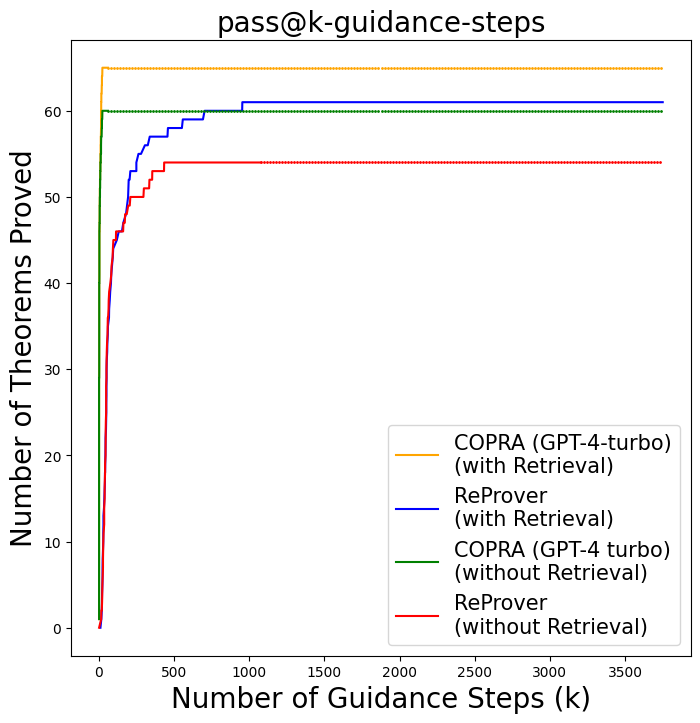
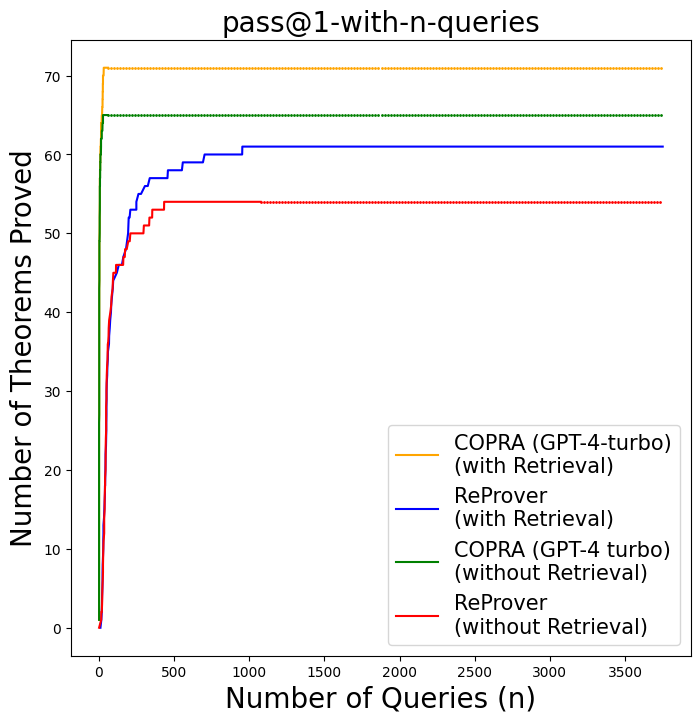
Updated the website

diff --git a/_posts/2023-10-09-AutomaticTheoremProvingAndLanguageAgents.md b/_posts/2023-10-09-AutomaticTheoremProvingAndLanguageAgents.md
@@ -1,6 +1,6 @@
 ---
 layout: post
-title: A Language-Agent Approach To Formal Theorem-Proving
+title: An In-Context Learning Agent for Formal Theorem-Proving
 subtitle: How can in-Context Learning help in proving theorems?
 share-img: /assets/img/2023-10-09-AutomaticTheoremProvingAndLanguageAgents/thumbnail.png
 thumbnail-img: /assets/img/2023-10-09-AutomaticTheoremProvingAndLanguageAgents/thumbnail.png
@@ -118,63 +118,103 @@ combine an LLM’s capability to use tools [(Toolformer by Schick et al. (2023))
 
 ## 4. CoPrA: in-COntext PRover Agent
 
-We introduce a new approach [in-**Co**ntext **Pr**over **A**gent (COPRA)](https://github.com/trishullab/copra) which is a Language Agent for ATP. 
+We introduce a new approach [in-**Co**ntext **Pr**over **A**gent (COPRA)](https://github.com/trishullab/copra) which is a in-Context agent for ATP. 
 
-![CoPraOverview](/assets/img/2023-10-09-AutomaticTheoremProvingAndLanguageAgents/img-final-overview.png)
+![CoPraOverview](/assets/img/2023-10-09-AutomaticTheoremProvingAndLanguageAgents/copramainfigure.png)
 
->The image above shows how our approach works. We propose a novel theorem proving agent which uses history of previous proof states, failures, repository of useful lemmas, and LLM as part of a verbal policy to predict the next proof action which will lead to simplification of the proof-state. Full details of our approach is described in our paper [A Language-Agent Approach To Formal Theorem-Proving (CoPrA)](https://arxiv.org/abs/2310.04353).
+>The image above shows how our approach works. The agent takes as input a formal statement of a theorem and optional natural-language hints about how to prove the theorem. At each time step, it prompts the LLM to select the next tactic to apply. LLM-selected tactics are "executed" in the underlying proof assistant. If the tactic fails, \copra records this information and uses it to avoid future failures. Additionally, the agent uses lemmas and definitions retrieved from an external database to simplify proofs. For more details refer to our paper: [An In-Context Learning Agent for Formal Theorem-Provin (CoPrA)](https://arxiv.org/abs/2310.04353).
 
 
->(On a side-note: Copra actually means the dried, white flesh of the coconut from which coconut oil is extracted)
+>>(On a side-note: Copra actually means the dried, white flesh of the coconut from which coconut oil is extracted)
 
 ### 4.1 Approach
 
-Our approach is based on the following ideas:
-1. Use a stack to store the history of proof states and proof actions.
-2. Have a map for storing a map of proof states to bad proof actions.
-3. A Prompt Serialization Protocol (PSP) helps in laying out the history of proof actions, proof states, and textual rewards.
+Abstractly, our *proof environment* consists of:
 
-![Prompt Serialization Protocol](/assets/img/2023-10-09-AutomaticTheoremProvingAndLanguageAgents/img-prompts.png)
+- A set of *states* $\mathcal{O}$. Here, 
+a state is either a set $O = \{o_1,\dots, o_k\}$ of 
+obligations $o_i$, or of the form $(O, w)$, where $O$ is a set of obligations and $w$ is a textual *error message*. States of the latter form are *error states*, and the set of such states is denoted by  
+$\mathit{Err}$.
+- A set of *initial states*, each consisting of a single obligation $(g_{in}, h_{in})$ extracted from a user-provided theorem.
+- A unique *goal state* $\mathtt{QED}$ is the empty obligation set. 
+- A finite set of *proof tactics*.
+- A transition function $T(O, a)$, which determines the result of applying a tactic $a$ to a state $O$. If $a$ can be successfully applied at state $O$, then $T(O, a)$ is the new set of obligations resulting from the application. If $a$ is a "bad" tactic, then $T(O, a)$ is an error state $(O, w_e)$, where $w_e$ is some feedback that explains the error. 
+Error states $(O, w)$ satisfy the property that $T((O, w), a) = (O, w)$ for all $a$. 
 
->In the above figure, Seq #1-#4 represent distinct invocations of the LLM. In each invocation, PSP first generates the “agent prompt,” which consists of three parts. The first part (“state”) is simply a serialization of the current proof state. The second (“stack”) incorporates information about previous actions as well as the bad actions for the current proof state. The third (“reward”) encodes the feedback from the environment regarding the success or failure of the last action. The
-response of the LLM to this prompt is then translated into a proof action. This action is then executed on the theorem prover.
+- A set of *global contexts*, each of which is a natural-language string that describes the theorem to be proven and insights ([Jiang et al., 2022](https://arxiv.org/abs/2210.12283)) about how to prove it. The theorem-proving agent can take a global context as an optional input and may use it to accelerate search. 
+
+We define the transition function $T$ to tactic sequences as:  
+$$
+T(O, \alpha) = 
+ \left\{\begin{array}{l}
+T(O, a_1) \qquad \textrm{if $n = 1$} \\
+T(T(O, \langle a_1,\dots, a_{n-1} \rangle), a_n) ~~~ \textrm{otherwise.}
+\end{array}
+\right. 
+$$
+
+The theorem-proving problem is now defined as follows: 
+
+**Problem Theorem-proving**
+
+Given an initial state $O_{in}$ 
+and an optional global context $\chi$, 
+find a tactic sequence $\alpha$ (a *proof*) such that 
+$T(O_{in}, \alpha) = \mathit{QED}$. 
+
+
+![COPRA Approach](/assets/img/2023-10-09-AutomaticTheoremProvingAndLanguageAgents/copraapproach.png)
+>The search procedure in $\texttt{COPRA}$. $T$ is the environment's transition function; $\mathit{st}$ is a stack, initialized to be empty. 
+$\mathit{Bad}(O)$ is a set of tactics, initialized to $\emptyset$, that are known to be bad at $O$. 
+$\texttt{Llm}$ is an LLM, 
+$Prompt$ generates a prompt,
+$Action$ parses the output of the LLM into a tactic (repeatedly querying the LLM in case there are formatting errors in its output),
+and $Retrieve$ gathers relevant lemmas and definitions from an external source. The overall procedure is called with a state $O_{in}$ and an optional global context $\chi$.
+
+![Prompt Serialization Protocol](/assets/img/2023-10-09-AutomaticTheoremProvingAndLanguageAgents/copraprompts.png)
+
+>A "conversation" between the LLM and the search algorithm in $\texttt{COPRA}$. Query $\#1$, Query $\#2$, $\dots$  represent queries made as the proof search progresses. The column labeled Query $\#i$ depicts the prompt at time step $i$ and the corresponding LLM response. The LLM response is parsed into a tactic and executed, with the error feedback incorporated into the next prompt.
 
 ### 4.2 Evaluation
 
 We evaluated our approach on two datasets: [miniF2F](https://github.com/facebookresearch/miniF2F) and [CompCert](https://github.com/UCSD-PL/proverbot9001/blob/master/compcert_projs_splits.json) which belong to different domains mathematics and software verification respectively.
 
-We use a metric called ***"Pass@k-inference"*** while comparing our approach with [ReProver](https://arxiv.org/abs/2306.15626) and [Proverbot9001](https://arxiv.org/abs/1907.07794). The standard metric for evaluating theorem-provers is pass@k. In this metric, a prover is given a budget of k proof attempts; the
-method is considered successful if one of these attempts leads to success. However, a key objective
-of our research is to discover proofs quickly, with fewer LLM queries and lower wall-clock time.
-The pass@k metric does not evaluate this characteristic as it does not quantify the number of LLM
-queries or amount of time needed by a proof attempt. 
+We use a metric called ***"Pass@k-with-n-queries"*** while comparing our approach with [ReProver](https://arxiv.org/abs/2306.15626) and [Proverbot9001](https://arxiv.org/abs/1907.07794). The standard metric for evaluating theorem-provers is *pass@k* ([Lample et al., 2022](https://arxiv.org/abs/2205.11491)). In this metric, a prover is given a budget of $k$ 
+*proof attempts*; the method is considered successful if one of these attempts leads to success. We consider a refinement of this metric called ***pass@k-with-n-queries***. Here, we measure the number of correct proofs that a prover can generate given *k* attempts, each with a budget of $\texttt{n}$ queries from the LLM or neural model. We enforce that a single query includes exactly one action (a sequence of tactics) to be used in the search. We want this metric to be correlated with the number of correct proofs that the prover produces within a specified wall-clock time budget; however, the cost of an inference query on an LLM is proportional to the number of responses generated per query. To maintain the correlation between the number of inference queries and wall-clock time, we restrict each inference on the LLM to a single response. 
 
 ![CoPraEvaluation](/assets/img/2023-10-09-AutomaticTheoremProvingAndLanguageAgents/img-miniF2F-pass-k-guidance-steps.png)
-> The figure shows, comparison between ReProver and our approach on miniF2F dataset. It shows the number of proofs solved by CoPrA and ReProver as a function of the number of inference steps. CoPrA proves a lot more theorems in just 60 inference steps.
+> The figure shows, comparison between ReProver and our approach on miniF2F dataset. It shows that not only $\texttt{COPRA}$ solves more problems than ReProver, but it also does that in lesser number of queries. $\texttt{COPRA}$ solves almost all problems solved by ReProver in less than 60 queries.
 
 ![CoPraEvaluation](/assets/img/2023-10-09-AutomaticTheoremProvingAndLanguageAgents/img-compcert-pass-k-guidance-steps-gpt-4-turbo.png)
-> The figure shows, comparison between Proverbot9001 and our approach on CompCert dataset. It shows the number of proofs solved by CoPrA and Proverbot9001 as a function of the number of inference steps. CoPrA proves more theorems in just 60 inference steps.
+> The figure shows, comparison between Proverbot9001 and our approach on CompCert dataset. We show that $\texttt{COPRA}$ works well across domains (theorem proving in software verification as well as formal mathematics).
 
 The tables below shows a detailed comparison of our approach with other approaches.
 
 ![CoPraEvaluation](/assets/img/2023-10-09-AutomaticTheoremProvingAndLanguageAgents/img-copra-vs-others-minif2f.png)
-> The table above shows, comparison between CoPrA and other approaches on miniF2F dataset. It is interesting to note that an ensemble of CoPrA with one-shot proves more theorems than most of the other approach.
+> Aggregate statistics for $\texttt{COPRA}$ and the baselines on $\texttt{miniF2F}$ dataset. Note the various ablations of $\texttt{COPRA}$ with and without retrieval or informal proofs. The timeout is a wall-clock time budget in seconds allocated across all attempts. Unless otherwise specified, (i) $\texttt{COPRA}$ uses GPT-4 as the LLM (ii) the temperature ($T$) is set to 0.
 
-![CoPraEvaluation](/assets/img/2023-10-09-AutomaticTheoremProvingAndLanguageAgents/table-miniF2F-detailed-comparison.png)
-
-![CoPraEvaluation](/assets/img/2023-10-09-AutomaticTheoremProvingAndLanguageAgents/table-wallclock-time.png)
 
 ![CoPraEvaluation](/assets/img/2023-10-09-AutomaticTheoremProvingAndLanguageAgents/img-miniF2F-pass-k-seconds.png)
->From Table 3, and the above figures, we can see that our approach is able to find proofs faster than ReProver even when compared against the wall-clock time.
+>We show that *pass@k-with-n-queries*, correlates very well with wall-clock time for finding proofs by using the metric *pass@k-seconds*. *pass@k-seconds* measures the number of proofs that an approach can find in less than $k$ seconds. The plot shows that *pass@k-seconds* follows the same trend as *pass@k-with-n-queries*.
 
-![CoPraEvaluation](/assets/img/2023-10-09-AutomaticTheoremProvingAndLanguageAgents/img-backtracking.png)
-
-From Table 2, we can see that backtracking is important for proving longer theorems. From these tables, it is clear that our approach is not able to find the proofs fast, but also give up proving much faster when the theorem is hard enough.
 
 ### 4.3 Some interesting proofs found by CoPrA
 
-![CoPraEvaluation](/assets/img/2023-10-09-AutomaticTheoremProvingAndLanguageAgents/copra_lean_proofs.png)
->The above image shows, some proofs in Lean found by CoPrA on miniF2F dataset.
+![CoPraEvaluation](/assets/img/2023-10-09-AutomaticTheoremProvingAndLanguageAgents/retrieval_helps_proof.png)
+>A theorem in the "numbertheory" category that $\texttt{COPRA}$ could prove but $\texttt{ReProver}$ could not. $\texttt{COPRA}$ could prove this result because of retrieval. BM25 retrieval found the lemma $\texttt{pnat.gcd\_mul\_lcm} : (\texttt{n}\; \texttt{m} : \mathbb{N}+) : (\texttt{gcd}\;\texttt{n}\;\texttt{m}) * (\texttt{lcm}\;\texttt{n}\;\texttt{m}) = \texttt{n} * \texttt{m}$ which helped $\texttt{COPRA}$ to prove the theorem above.
+
+![CoPraEvaluation](/assets/img/2023-10-09-AutomaticTheoremProvingAndLanguageAgents/informal_helps_proof.png)
+>An interesting proof generated by $\texttt{COPRA}$ while using informal proofs hints generated via GPT-4.
+
+
+![CoPraEvaluation](/assets/img/2023-10-09-AutomaticTheoremProvingAndLanguageAgents/copra_miniF2F_proofs.png)
+>Some other interesting proofs generated for $\texttt{miniF2F}$ by $\texttt{COPRA}$. The length of the proofs generated shows that interaction with the environment helps in fixing the errors encountered while writing long proofs. These long sequences of rewrites are not easy to synthesize without knowing the exact execution feedback from the environment which often contains the hint to fix the rewrites.
+
+![CoPraEvaluation](/assets/img/2023-10-09-AutomaticTheoremProvingAndLanguageAgents/copra_lean_proofs_backtracking.png)
+>Some interesting proofs generated for $\texttt{miniF2F}$ dataset which were generated because of $\texttt{COPRA}$'s backtracking capabilities.
+
+![CoPraEvaluation](/assets/img/2023-10-09-AutomaticTheoremProvingAndLanguageAgents/copra_lean_proofs_different_from_miniF2F.png)
+>Some proofs found by $\texttt{COPRA}$ as compared to the proofs mentioned in the $\texttt{miniF2F}$ test dataset. It is interesting to see that the proofs generated by $\texttt{COPRA}$ are different from the proofs mentioned in the repository. This is especially true when the proofs are longer. It is also worth noting that occasionally $\texttt{COPRA}$ can find very simple proofs for longer proofs mentioned in $\texttt{miniF2F}$ test dataset. (a.1), (b.1), and (c.1) show the proofs as mentioned in the $\texttt{miniF2F}$ dataset, while (a.2), (b.2), and (c.2) show the corresponding proofs generated by $\texttt{COPRA}$.
 
 ![CoPraEvaluation](/assets/img/2023-10-09-AutomaticTheoremProvingAndLanguageAgents/copra_coq_proofs.png)
->The above image shows, some proofs in Coq found by CoPrA on CompCert dataset.
+>Some other interesting proofs generated for CompCert by $\texttt{COPRA}$. We can see that these proofs are long, and often use "apply" tactic which shows that $\texttt{COPRA}$ can effectively use the retrieved information to discharge given proof states.
